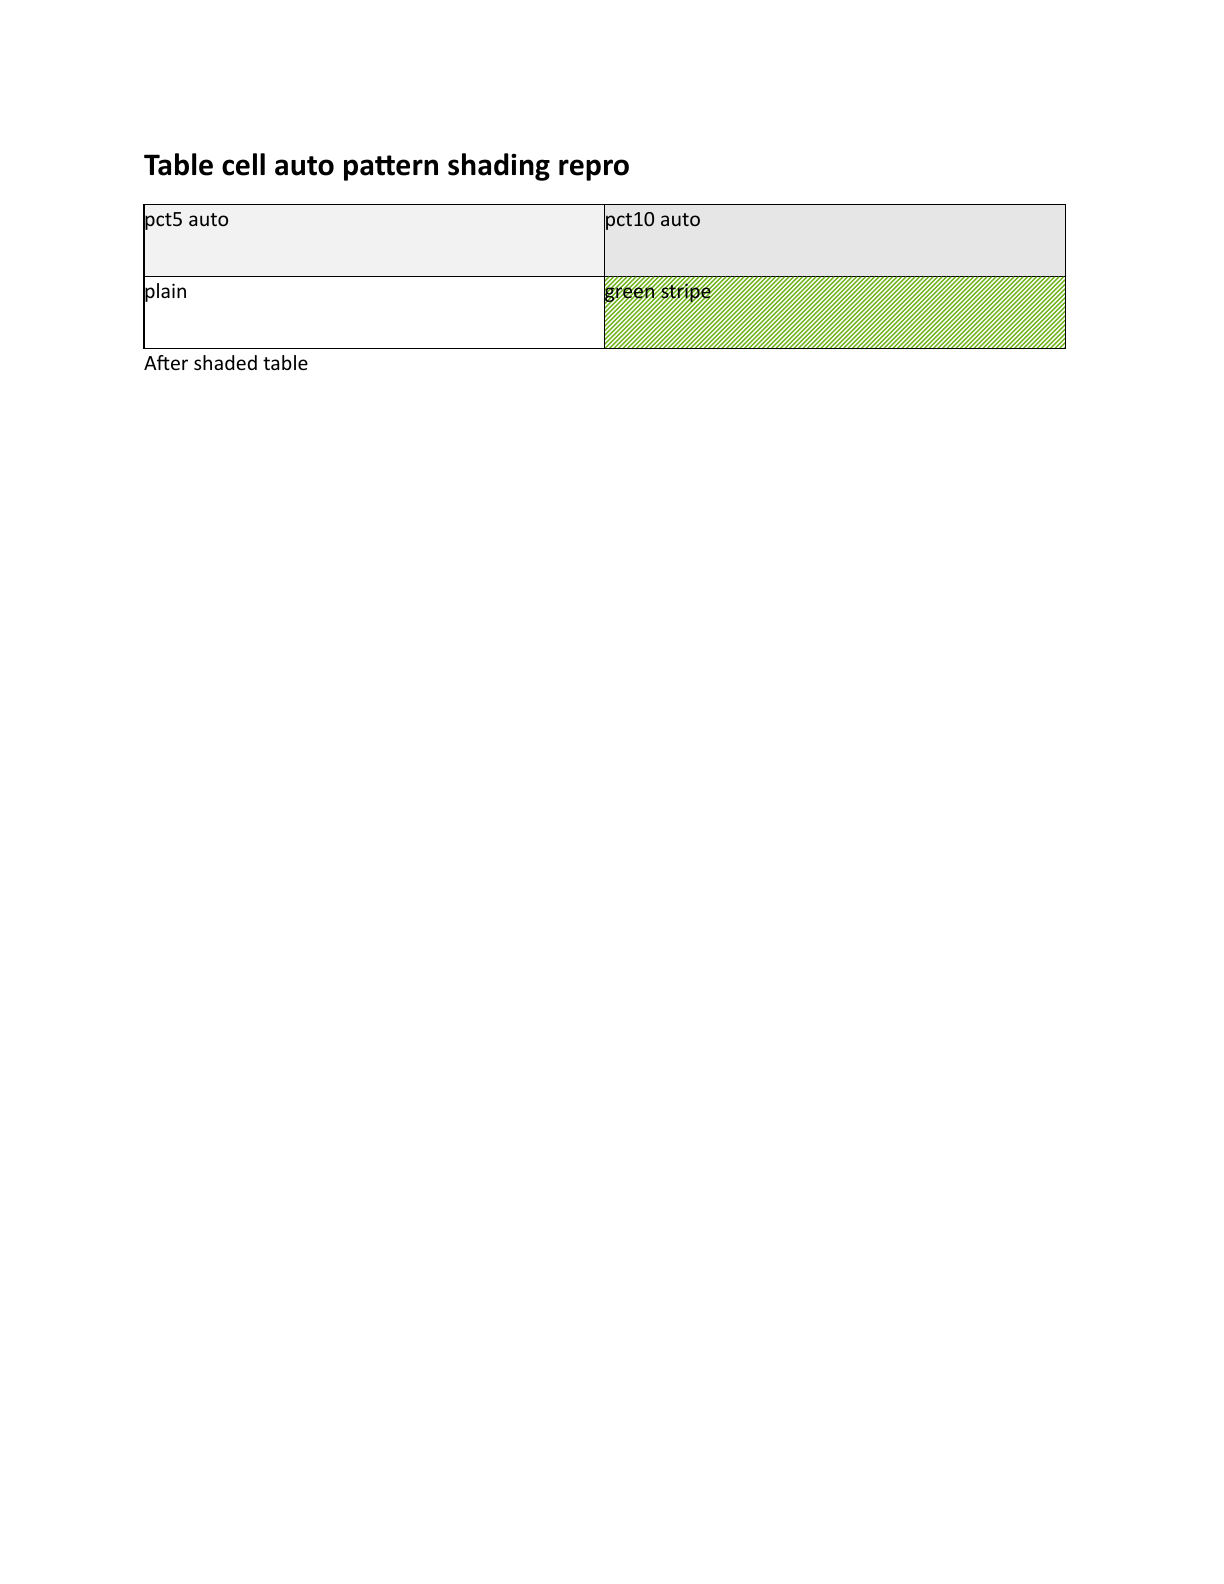
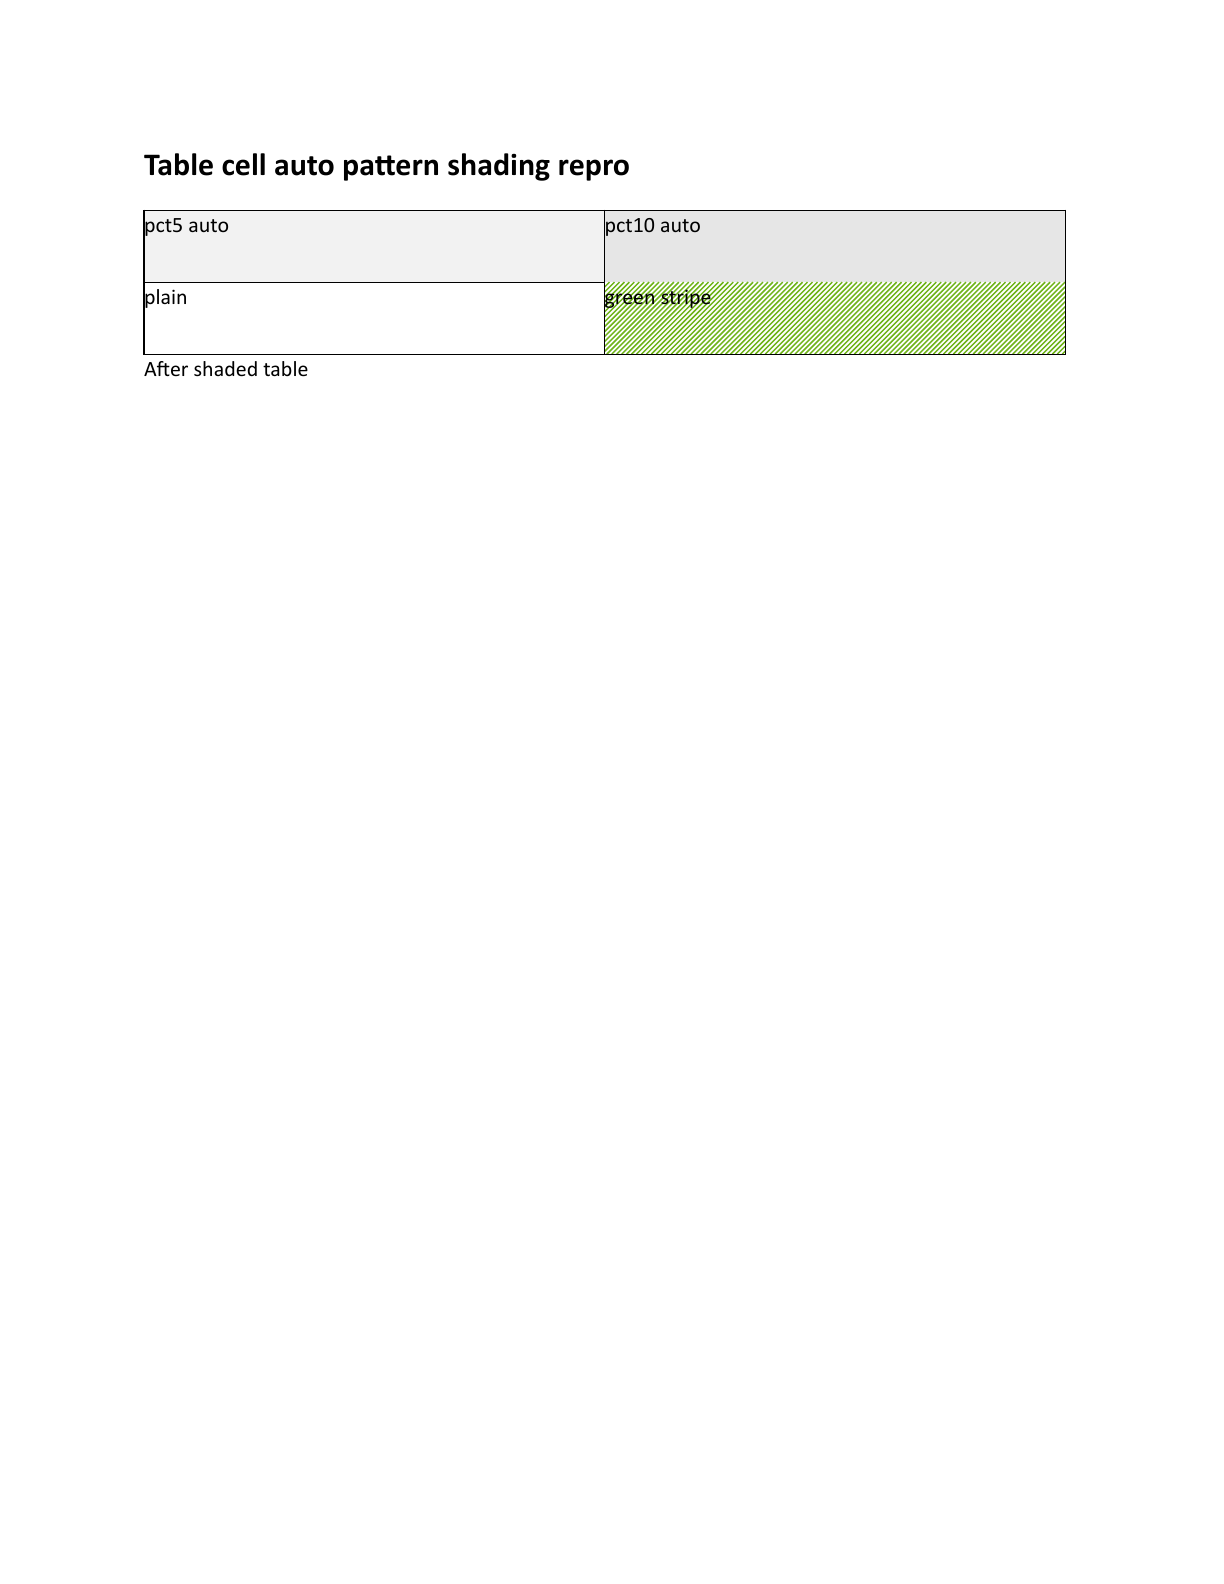
Word table parity: restore default cell after-spacing

Changed region(s): [[0.4967, 0.1237, 0.8693, 0.2475], [0.1242, 0.2165, 0.2484, 0.2475], [0.1242, 0.1237, 0.1863, 0.1856]]

diff --git a/docs/word-parity-fixes.html b/docs/word-parity-fixes.html
@@ -153,6 +153,41 @@
     <tbody>
       <tr>
         <td>
+          <strong>Default table-cell after-spacing and table follow y</strong>
+          <span class="meta">Repro: <code>tests/repros/word/table-cell-default-after-spacing.docx</code></span>
+          <span class="meta">Real fixture class: direct-border tables whose cell paragraphs omit <code>w:spacing/@after</code> after an imported heading with no explicit line-spacing.</span>
+          <span class="meta">Paths checked: Word PDF layout, PDF/backend raster, browser canvas layout, native PNG, and TOC regression guards.</span>
+        </td>
+        <td>
+          <div class="zoom">
+            <img src="images/word/table-cell-default-after-spacing-word.png" style="--w:1224px; --x:80px; --y:145px; --s:0.72" alt="Word reference default table-cell after-spacing">
+          </div>
+          <div class="caption">Word keeps the default cell paragraph after-spacing when the cell paragraph omits direct spacing; the first-to-second row text pitch is about <code>30.6px</code>.</div>
+        </td>
+        <td>
+          <div class="zoom">
+            <img src="images/browser/table-cell-default-after-spacing-after.png" style="--w:1224px; --x:80px; --y:145px; --s:0.72" alt="After default table-cell after-spacing fix">
+          </div>
+          <div class="caption">After: the PDF/backend raster matches Word's table area. Browser layout guard reports row pitch <code>30.93px</code>, <code>Beta gapDy=0.37px</code>, <code>Delta gapDy=0.21px</code>, and no row exceeds the <code>6px</code> threshold.</div>
+        </td>
+        <td>
+          <div class="zoom">
+            <img src="images/baseline/table-cell-default-after-spacing-before.png" style="--w:900px; --x:55px; --y:130px; --s:1.08" alt="Before default table-cell after-spacing fix">
+          </div>
+          <div class="caption">Before: missing cell paragraph spacing was treated as explicit <code>0pt</code>, collapsing row pitch to <code>19.59px</code>; <code>Gamma</code> drifted <code>17.98px</code> high and <code>After table</code> drifted <code>29.10px</code> high.</div>
+        </td>
+        <td>
+          <p><strong>Fix:</strong> preserve genuinely missing paragraph spacing so Word/default spacing can apply, while still using the zero-spacing fallback for directly formatted top-level DOCX paragraphs whose missing spacing Word treats as explicit.</p>
+          <ul>
+            <li><code>src/Office.Formats/src/DocxReader.fs</code> and <code>tools/native-runner/Program.fs</code>: preserve missing spacing for plain Normal/heading paragraphs and table cells; use the zero fallback only for direct-formatted top-level paragraphs such as the TOC spacer.</li>
+            <li><code>src/Word/Layout.fs</code>: use Word's taller default single-line box for missing/default-spacing body paragraphs, keep the smaller explicit/auto-spacing line box for TOC pagination, and apply the table-follow adjustment only to that explicit-spacing case.</li>
+            <li><code>src/Word/WordLayout.fs</code>: auto-height rows that inherit default cell after-spacing also reserve the collapsed horizontal table border, matching Word's visible row pitch.</li>
+            <li>Focused guard: <code>assert-table-cell-default-after-spacing.mjs</code> checks row pitch and whole-table y drift against the PDF-backed Word layout.</li>
+          </ul>
+        </td>
+      </tr>
+      <tr>
+        <td>
           <strong>Diagonal table-cell shading density</strong>
           <span class="meta">Repro: <code>tests/repros/word/table-cell-auto-pattern-shading.docx</code></span>
           <span class="meta">Real fixture class: <code>docx4j-tables.docx</code> cells with diagonal <code>w:shd</code> patterns and explicit foreground colors.</span>
@@ -168,7 +203,7 @@
           <div class="zoom">
             <img src="images/browser/table-diagonal-shading-density-after.png" style="--w:1224px; --x:120px; --y:180px; --s:0.58" alt="After diagonal table-cell shading density fix">
           </div>
-          <div class="caption">After: diagonal hatch spacing matches the Word-like coverage; the sampled stripe interior is <code>(183.2,217.0,141.2)</code> and the visual guard reports max channel delta <code>1.2</code>.</div>
+          <div class="caption">After: diagonal hatch spacing matches the Word-like coverage on the correctly aligned table; the sampled stripe interior is <code>(186.8,218.9,147.0)</code> and the visual guard reports max channel delta <code>7.0</code>.</div>
         </td>
         <td>
           <div class="zoom">
@@ -177,11 +212,11 @@
           <div class="caption">Before: 2px diagonal hatch spacing made the green pattern too dense and dark; the sampled stripe interior averaged <code>(149.0,199.0,86.7)</code>, a max-channel delta of <code>53.3</code> vs Word.</div>
         </td>
         <td>
-          <p><strong>Fix:</strong> loosen diagonal hatch spacing from <code>2px</code> to <code>3px</code>, reducing the effective coverage to Word's reverse-diagonal stripe density.</p>
+          <p><strong>Fix:</strong> loosen diagonal hatch spacing from <code>2px</code> to <code>3.3px</code>, reducing the effective coverage to Word's reverse-diagonal stripe density.</p>
           <ul>
             <li>Visual guard: <code>assert-table-auto-pattern-shading-visual.py</code> samples the <code>pct5</code>, <code>pct10</code>, and diagonal stripe cells from 144dpi Word/ours rasters.</li>
-            <li>Focused result: percentage fills stay within <code>2.7</code> channels, and the diagonal stripe drops from <code>53.3</code> to <code>1.2</code> max-channel delta.</li>
-            <li>Scope: this is a paint-only hatch density change; text-position residuals in this repro remain the separate table-top spacing issue.</li>
+            <li>Focused result: percentage fills stay within <code>0.8</code> channels, and the diagonal stripe drops from <code>53.3</code> to <code>7.0</code> max-channel delta.</li>
+            <li>Scope: this is a paint-only hatch density change; the table placement in this repro is covered by the default table-cell after-spacing row above.</li>
           </ul>
         </td>
       </tr>
